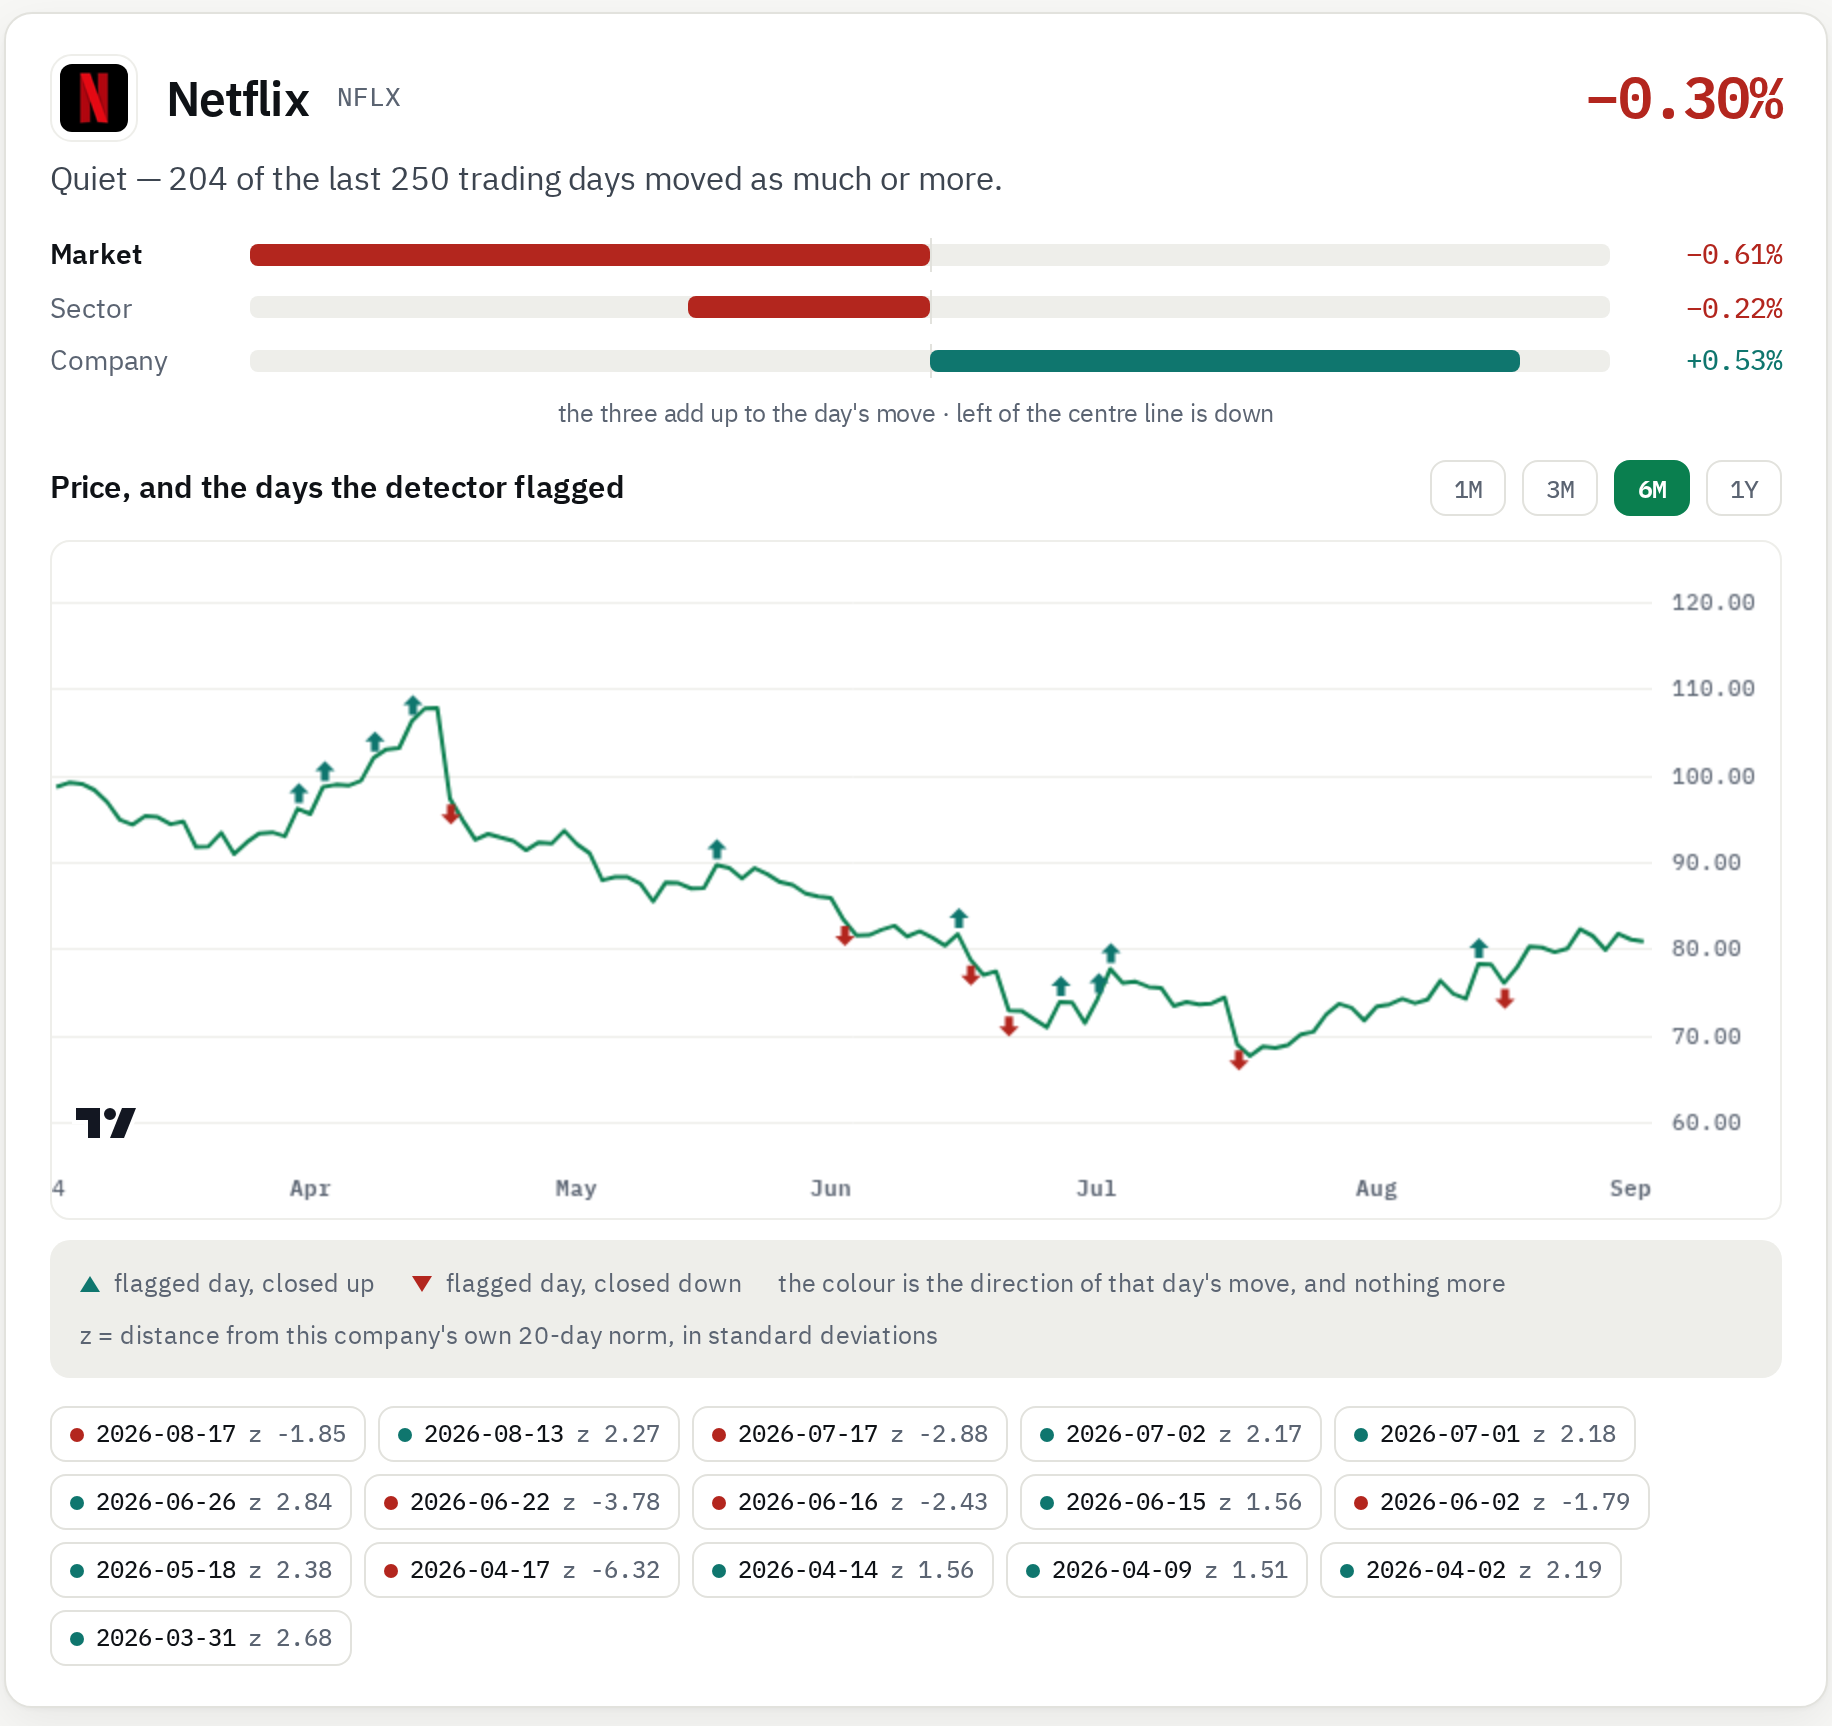
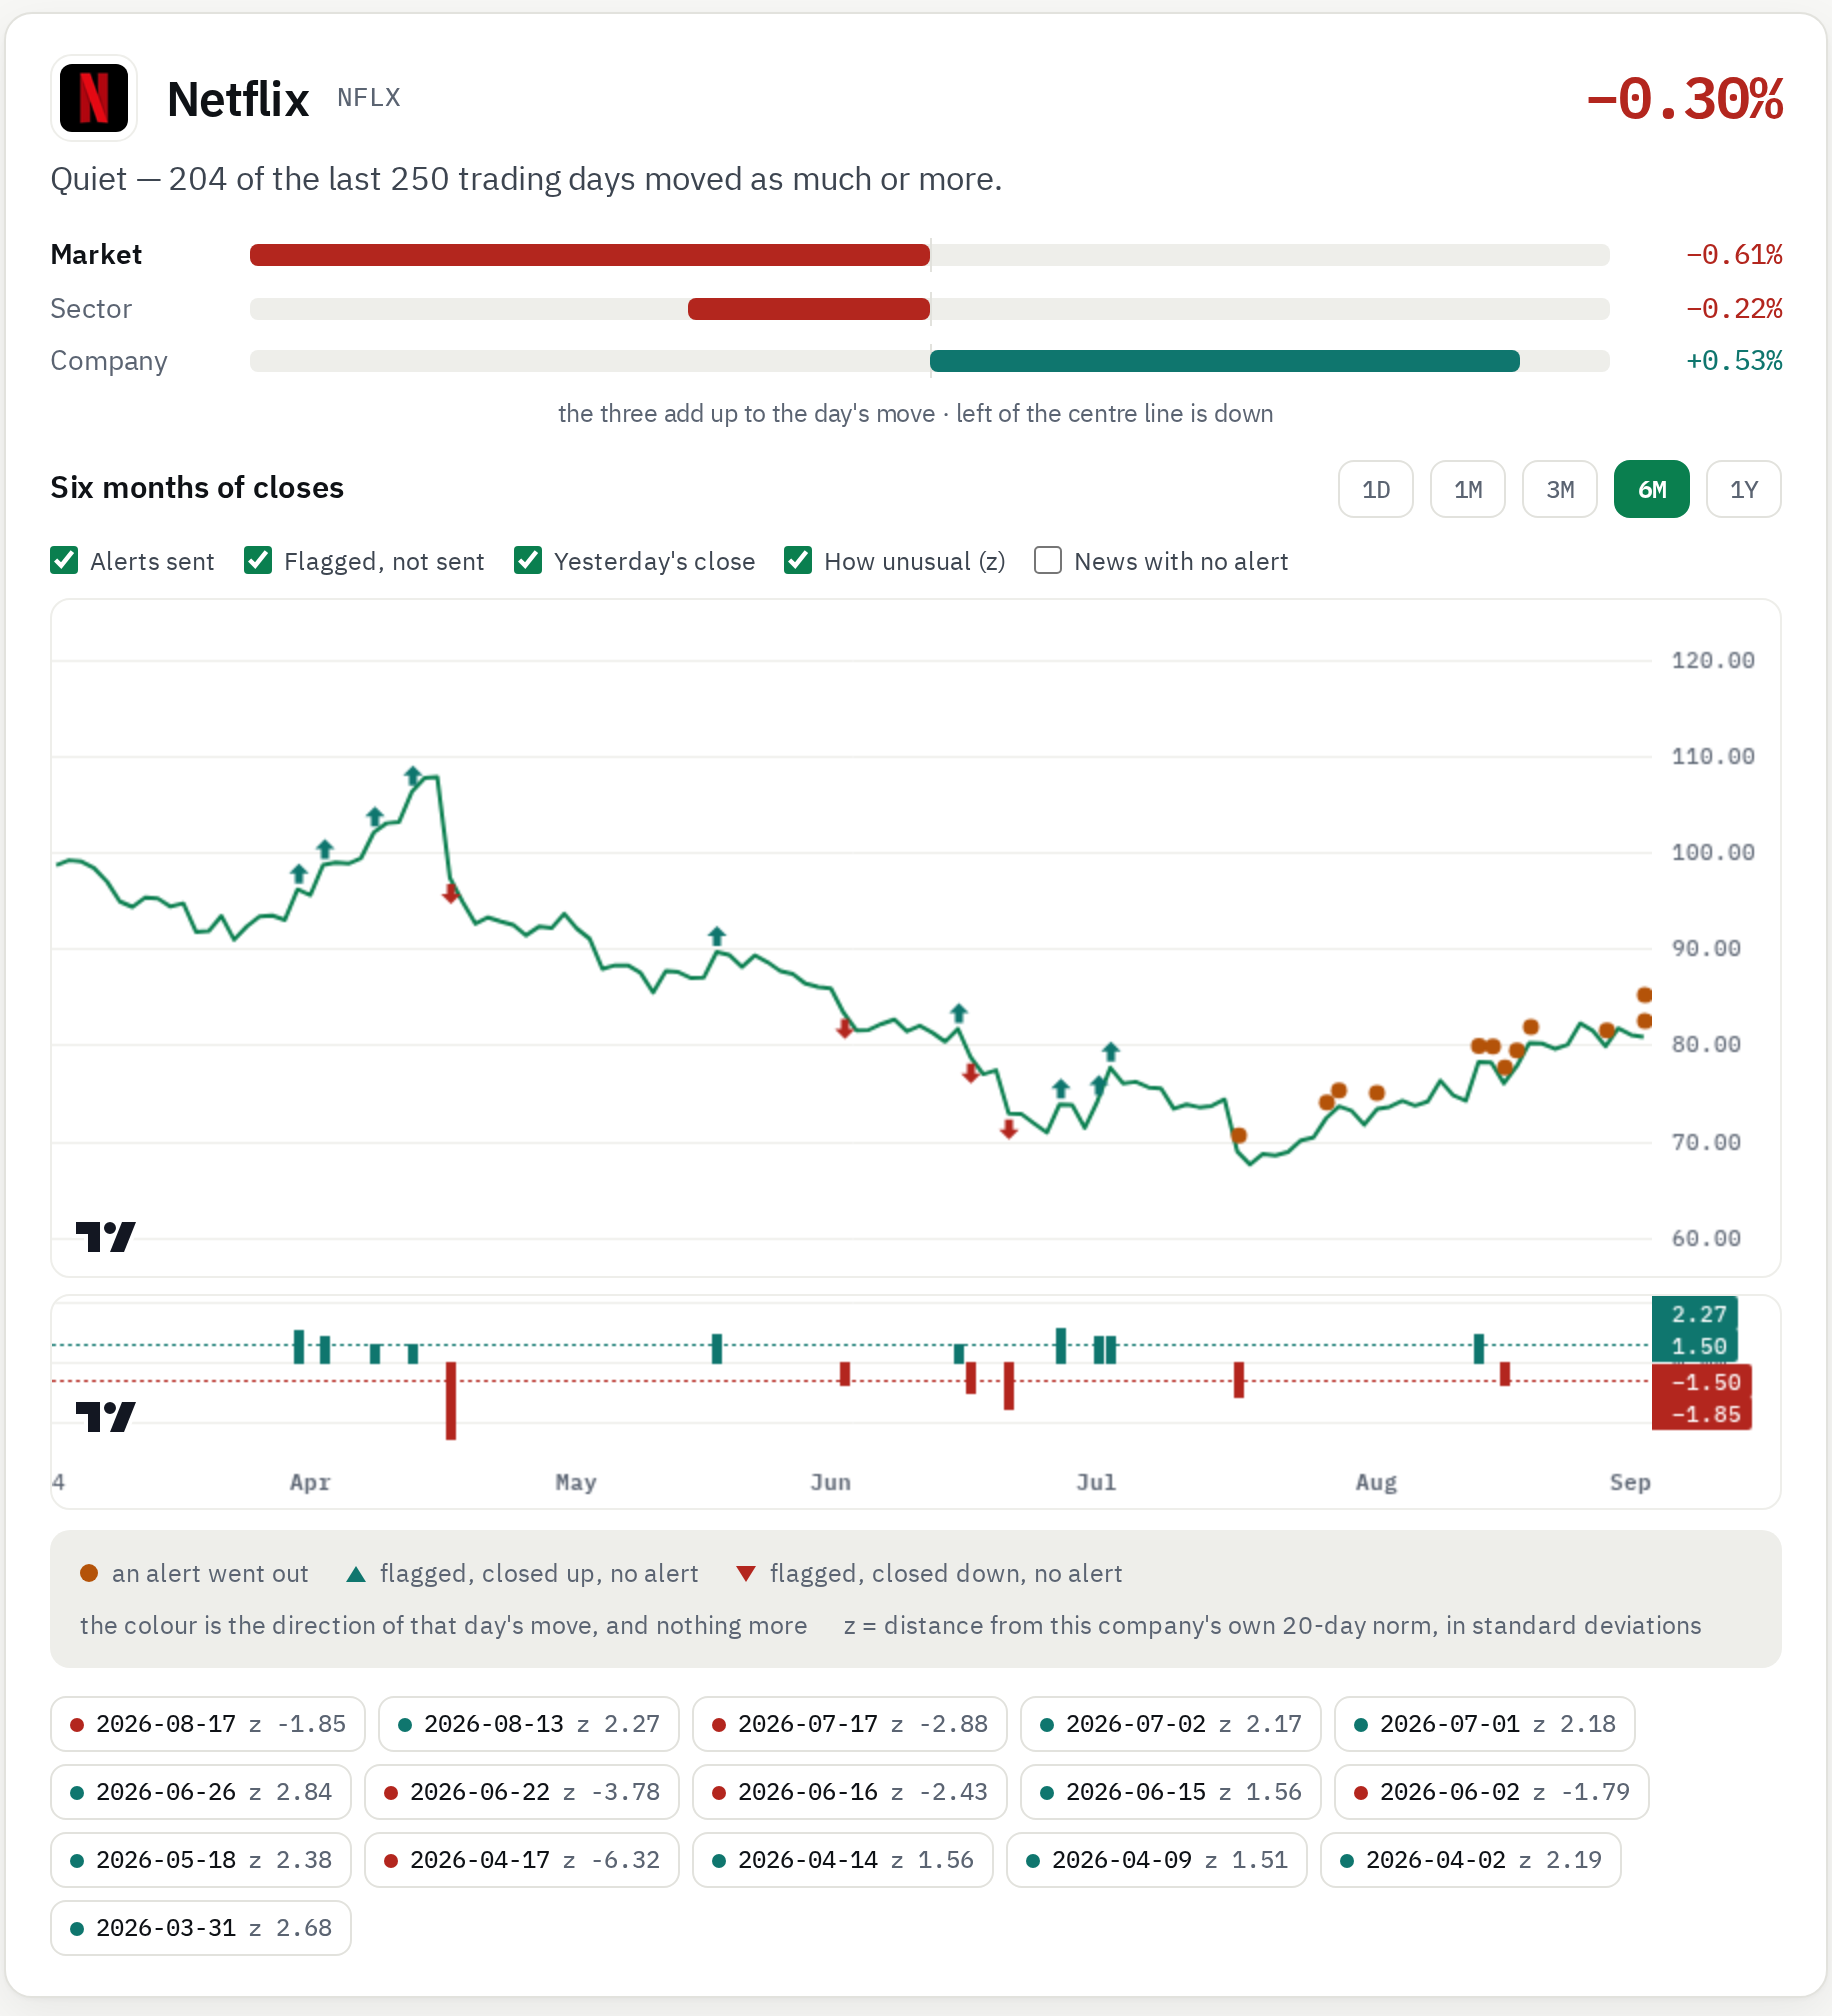
Capitulo 4: figuras do painel v8, e o registo com as duas decisoes que faltam ao autor
As tres figuras regeradas com o grafico novo: a da empresa vai em 6M e nao no 1D que a pagina abre, porque o que ela tem de mostrar - a distincao entre assinalar e enviar - so existe ao longo de meses. A legenda diz isso.

E ficam registadas duas decisoes que sao dele e nao minhas: o valor do orcamento diario, e levar estes commits ao main do GitHub - o workflow do Actions corre o runner a partir do ramo por omissao, portanto enquanto o main nao os tiver ha um segundo produtor a correr codigo antigo, incluindo o do orcamento.

Tese: 0 erros, 0 referencias por resolver, 126 paginas.

Claude-Session: https://claude.ai/code/session_01MxeyFPV1dA1vkr92wXzTpz

diff --git a/tese-v2/ch4/chapter4.tex b/tese-v2/ch4/chapter4.tex
@@ -591,7 +591,8 @@ evidência de uma empresa e o registo de uma decisão de não comunicar.
 norte-americana fechada. Os cinco indicadores repartem as doze empresas vigiadas em cinco alertas
 entregues e sete decisões de não comunicar; a contagem de movimentos fora do comum mede outra
 coisa, o preço, e por isso é apresentada como contagem separada. Cada empresa declara o seu estado
-à superfície, e toda a cor utilizada tem legenda. As capturas são geradas a partir de um
+à superfície, e toda a cor utilizada tem legenda, incluindo a da mascote, que acompanha a variação
+diária do índice de mercado utilizado na decomposição. As capturas são geradas a partir de um
 instantâneo da própria aplicação, e não recolhidas à mão; a largura de captura é de $960$ pixeis,
 por ser aquela em que o texto da interface permanece legível depois de reduzido à caixa de texto
 deste documento.}
@@ -602,9 +603,14 @@ deste documento.}
 \centering
 \includegraphics[width=0.94\textwidth]{figures/app_v7_empresa.png}
 \caption[Evidência de uma empresa]{Vista de uma empresa: o veredicto em palavras antes de qualquer
-número, a repartição do movimento nas três parcelas, e a série de preço com os dias que o detetor
-assinalou. As setas indicam a direção do fecho desse dia e nada mais; a data e o valor de $z$ de
-cada dia estão nas fichas por baixo do gráfico, e não sobre a linha, para não se sobreporem.}
+número, a repartição do movimento nas três parcelas, e a série de preço. As marcas separam as duas
+coisas que este trabalho distingue: o ponto assinala um dia em que um alerta foi entregue, e a seta
+um dia que o detetor assinalou e que nenhuma mensagem acompanhou. A faixa inferior mostra o valor
+de $z$ desses dias contra o limiar de $\pm1{,}5$, em eixo próprio por não partilhar unidade com o
+preço. A direção da seta é a do fecho e nada mais; a data e o valor de $z$ de cada dia estão nas
+fichas por baixo, e não sobre a linha, para não se sobreporem. A interface abre no dia corrente; a
+figura mostra o intervalo de seis meses, por ser aquele em que a distinção entre assinalar e
+comunicar se torna observável.}
 \label{fig:sis_empresa}
 \end{figure}
 

diff --git a/scripts/figuras/capturar_painel.py b/scripts/figuras/capturar_painel.py
@@ -144,7 +144,11 @@ def capturar() -> None:
         for k in pg.eval_on_selector_all(
                 ".k", "els=>els.map(e=>e.innerText.replace(/\\n/g,' · '))"):
             print("  kpi:", k)
-        fim = pg.eval_on_selector(".legenda", "e => e.getBoundingClientRect().bottom + scrollY")
+        # ⚠ `#colEsq > .legenda` e nao `.legenda`: desde que o grafico e o modal ganharam
+        # legendas proprias, o primeiro `.legenda` do documento pode ser um deles, vazio e
+        # escondido — e o recorte saia com doze pixeis de altura, sem erro nenhum.
+        fim = pg.eval_on_selector("#colEsq > .legenda",
+                                  "e => e.getBoundingClientRect().bottom + scrollY")
         pg.screenshot(path=str(FIGURAS / "app_v7_painel.png"), full_page=True,
                       clip={"x": 0, "y": 0, "width": 960, "height": round(fim) + 12})
         print(f"  app_v7_painel.png: 960x{round(fim) + 12} css px")
@@ -152,7 +156,13 @@ def capturar() -> None:
         print("FIGURA 2 — a evidencia de", ALVO_DETALHE)
         pg.evaluate("""t => { const b=[...document.querySelectorAll('.e')].find(x=>x.dataset.t===t);
                               if (b) b.click(); }""", ALVO_DETALHE)
-        pg.wait_for_timeout(3000)
+        pg.wait_for_timeout(2000)
+        # ⚠ A figura vai em 6M e nao no 1D que a pagina abre por defeito. Nao e para embelezar:
+        # o que esta figura tem de mostrar e a distincao entre o que foi assinalado e o que foi
+        # enviado, e essa so existe ao longo de meses. O 1D mostra um dia, que e outra pergunta.
+        pg.evaluate("""() => { const b=[...document.querySelectorAll('#intervalos button')]
+                                 .find(x=>x.dataset.r==='6M'); if (b) b.click(); }""")
+        pg.wait_for_timeout(2500)
         pintados = pg.evaluate("""() => {
             const c=document.querySelector('#graf canvas'); if(!c) return 0;
             const d=c.getContext('2d').getImageData(0,0,c.width,c.height).data; let n=0;

diff --git a/PLANO_FINAL_2026-09-01.md b/PLANO_FINAL_2026-09-01.md
@@ -723,6 +723,7 @@ Registado para não voltar a ser discutido a meio:
 | 2026-09-01 | Chegou o modelo oficial MEIA v2. Ponto 6 resolvido e aplicado: Declaração de Integridade na redação do modelo, declaração de IA movida para a Secção 3.8.4, Lista de Símbolos acrescentada. |
 | 2026-09-01 | **Orçamento de páginas corrigido.** Os anexos não contam. Contam 90 de 120, e não 120 de 120. A Figura `fig:sis_seletividade` foi reposta no `ch4`. |
 | 2026-09-01 | Frente 8.5 acrescentada a pedido do autor: o «porquê?» em cadeia, mesmo no fim. Calendário passa de 18 para 20 dias. |
+| 2026-09-02 | **Painel v8 e um segundo defeito crítico.** Gráfico: 1D por defeito com intradiário, camadas com interruptores, alertas com marca própria distinta dos dias assinalados, e o z numa faixa própria (não partilha unidade com o preço). History deixa de ser subtractivo e passa a mostrar o registo ao longo do tempo. Mascote como semáforo do **SPY** — não do NASDAQ; o índice da decomposição é o S&P 500 e a legenda nomeia-o. **E o orçamento de 5 alertas/dia não estava a ser cumprido:** 20 no dia 26 de agosto, em quatro rajadas de exactamente cinco aos segundos de arranques do processo. O contador vive no disco efémero e o mecanismo que o repunha não distinguia «não consegui ler» de «não saiu nada». Corrigido, com falha fechada só nessa porta. Varrimento do orçamento em `docs/evaluation/evaluation_budget_sweep.md`: de k=5 para k=15 a precisão cai 1,7% e a cobertura triplica — a decisão do valor é do autor. |
 | 2026-09-02 | **Defeito crítico na frente 01, apanhado e corrigido.** Os votos eram publicados na branch de dados com `publish_blob`, que **substitui**. Com o disco efémero do Heroku, o primeiro voto a chegar depois de um reinício apagava tudo o que estava lá antes — e apagou: os seis votos anteriores ao deploy das 19:10 desapareceram. Passou a `publish_jsonl_merge`, que junta. Segundo defeito da mesma família: o `/api/feedback` lia o disco do dyno **web** e quem escreve é o **worker**, por isso o painel mostrava zero votos com votos a entrar; passa a juntar o disco local com a branch, em memória e com cache de 45 s. Sete testes novos, incluindo o que separa «li e está vazio» de «não consegui ler». |
 | 2026-09-01 | **Frente 09 registada** (ponto 9, pedido a meio da frente 03): organização da pasta e do repositório. Plano em `docs/design/reorganizacao.md`. Corre a seguir ao painel v7. E `docs/REGISTO_PEDIDOS.md` passa a ser o sítio onde nenhum pedido dele se perde — regras permanentes, restrição de não prever preços, fila de trabalho e pendências dele. |
 | 2026-09-01 | **Frente 03 no ar.** Funil visual em vez da parede de prosa; dois defeitos apanhados por medição no DOM (sobreviventes negativos, e colisão de `.barra` com o cabeçalho); o retângulo do logótipo saiu de caminho (`.nome` → `.chip`); figuras do ch4 passam a ser geradas por `scripts/figuras/capturar_painel.py`. |

diff --git a/docs/REGISTO_PEDIDOS.md b/docs/REGISTO_PEDIDOS.md
@@ -181,6 +181,8 @@ Saída: `docs/defesa/PORQUES.md`.
 | E1 | **Rodar a chave da API do Heroku.** Foi colada no chat, portanto está queimada. Heroku → Account settings → API Key → Regenerate. | ⚠ **por fazer, é dele** |
 | E2 | Re-execução coordenada dos 31 avaliadores, uma única vez, no fim. | ⏳ |
 | E3 | Decidir se compra um domínio próprio. Sem domínio, o URL fica com o sufixo do Heroku — não há volta. | ⏳ decisão dele |
+| E4 | **Decidir o orçamento diário de alertas.** Está em 5. O varrimento (`docs/evaluation/evaluation_budget_sweep.md`) mostra que de 5 para 15 a precisão cai 1,7% e a cobertura triplica. Subir ajuda a recolha de feedback; obriga a acertar o número no texto da tese. Não escolher o k pela tabela — isso seria selecionar sobre o conjunto de teste. | ⏳ decisão dele |
+| E5 | **Levar os commits para o `main` do GitHub.** O workflow `alerts.yml` corre `run_alerts.py` a partir do ramo por omissão, em cron. Enquanto o `main` não tiver estas correcções, existe um segundo produtor a correr código antigo — incluindo o do orçamento. | ⚠ **é dele** |
 
 ---
 
